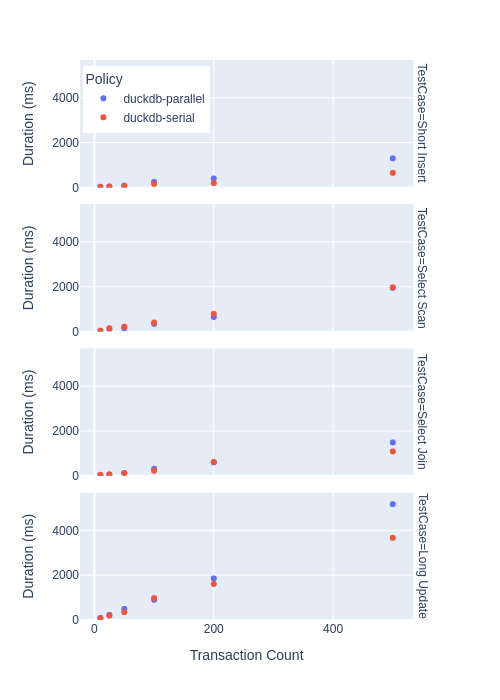
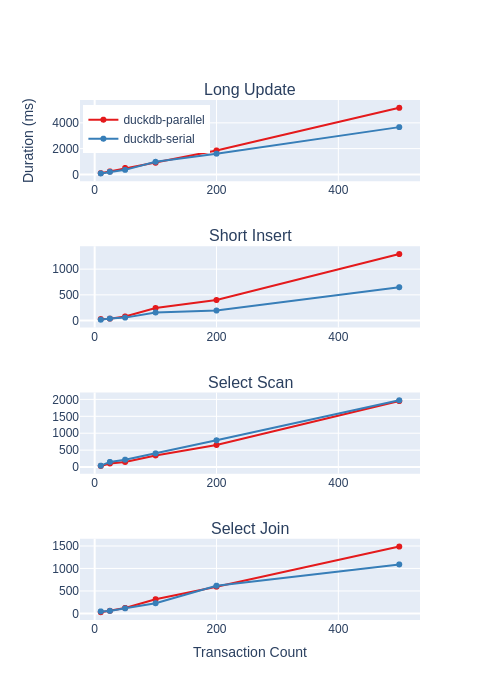
cleanup duckdb plot

Changed region(s): [[0.03, 0.06, 0.87, 0.96], [0.63, 0.87, 0.72, 0.93]]

diff --git a/ntran/analyze.py b/ntran/analyze.py
@@ -149,18 +149,36 @@ def create_duckdb_figures(results: str, figures: str):
     
     df = pd.concat(policy_dfs)
     df["Duration (ms)"] = df["Duration"].apply(convert_duration_to_milliseconds)
-    max_duration = df["Duration (ms)"].max()
 
-    fig = px.scatter(
-        df,
-        x="TransactionCount",
-        y="Duration (ms)",
-        color="Policy",
-        facet_row="TestCase",
-        range_y=(0, max_duration+(max_duration*.1))
-    )
+    test_cases = ["Long Update", "Short Insert", "Select Scan", "Select Join"]
+    fig = make_subplots(rows=4, cols=1, subplot_titles=test_cases)
+
+    colors = px.colors.qualitative.Set1
+
+    for i, testcase in enumerate(test_cases):
+        curr_df = df[df["TestCase"] == testcase]
+        for j, policy_df in curr_df.groupby(["Policy"]):
+            policy = j[0]
+            color = colors[0] if policy == "duckdb-parallel" else colors[1]
+            fig.append_trace(
+                po.Scatter(
+                    x=policy_df["TransactionCount"],
+                    y=policy_df["Duration (ms)"],
+                    line={
+                        "color": color,
+                    },
+                    name=policy,
+                    legendgroup="line_group",
+                    showlegend=i<1,
+                ),
+                row=i+1,
+                col=1
+            )
+
     fig.update_layout(
         xaxis_title="Transaction Count",
+        xaxis_title_standoff=450,
+        yaxis_title="Duration (ms)",
         width=500,
         height=700,
         legend={
